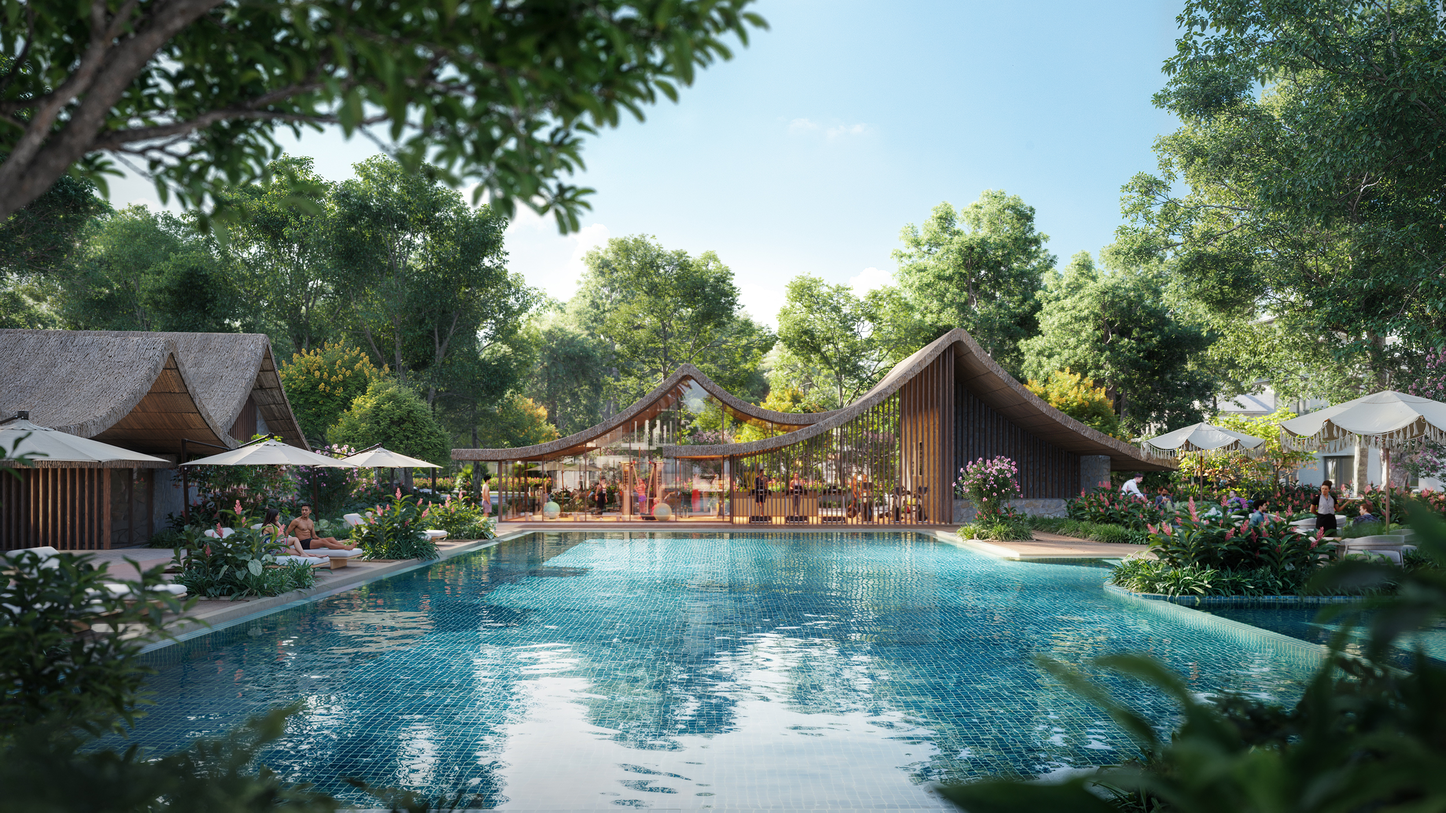
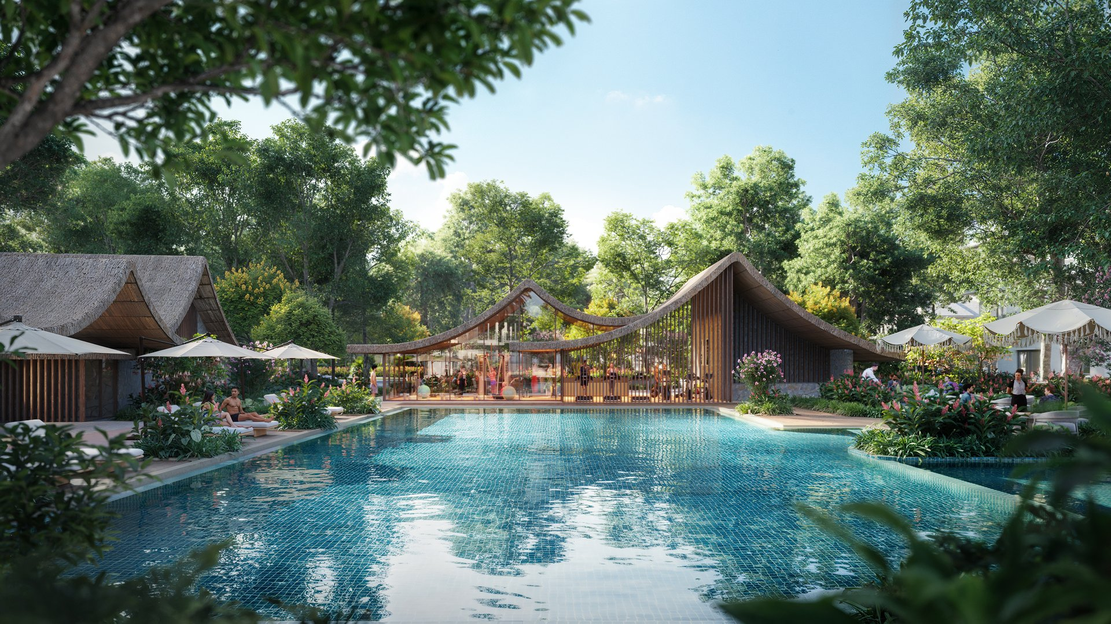
perf: optimize images - reduce 130MB (94.4%)
- Compress park-villa.png (48MB) to .jpg (0.55MB) - 98.8% reduction
- Optimize 11 other large images
- Total size: 137.68MB -> 7.70MB
- Improve page load speed significantly
- Update park-villa reference in HTML

diff --git a/index.html b/index.html
@@ -719,7 +719,7 @@
 
                 <!-- Villa Images -->
                 <div class="gallery-item" data-category="villa">
-                    <img src="assets/images/park-villa.png" alt="Park Villa">
+                    <img src="assets/images/park-villa.jpg" alt="Park Villa">
                     <div class="gallery-overlay">
                         <h3>Park Villa</h3>
                         <p>Biệt thự vườn cao cấp</p>
